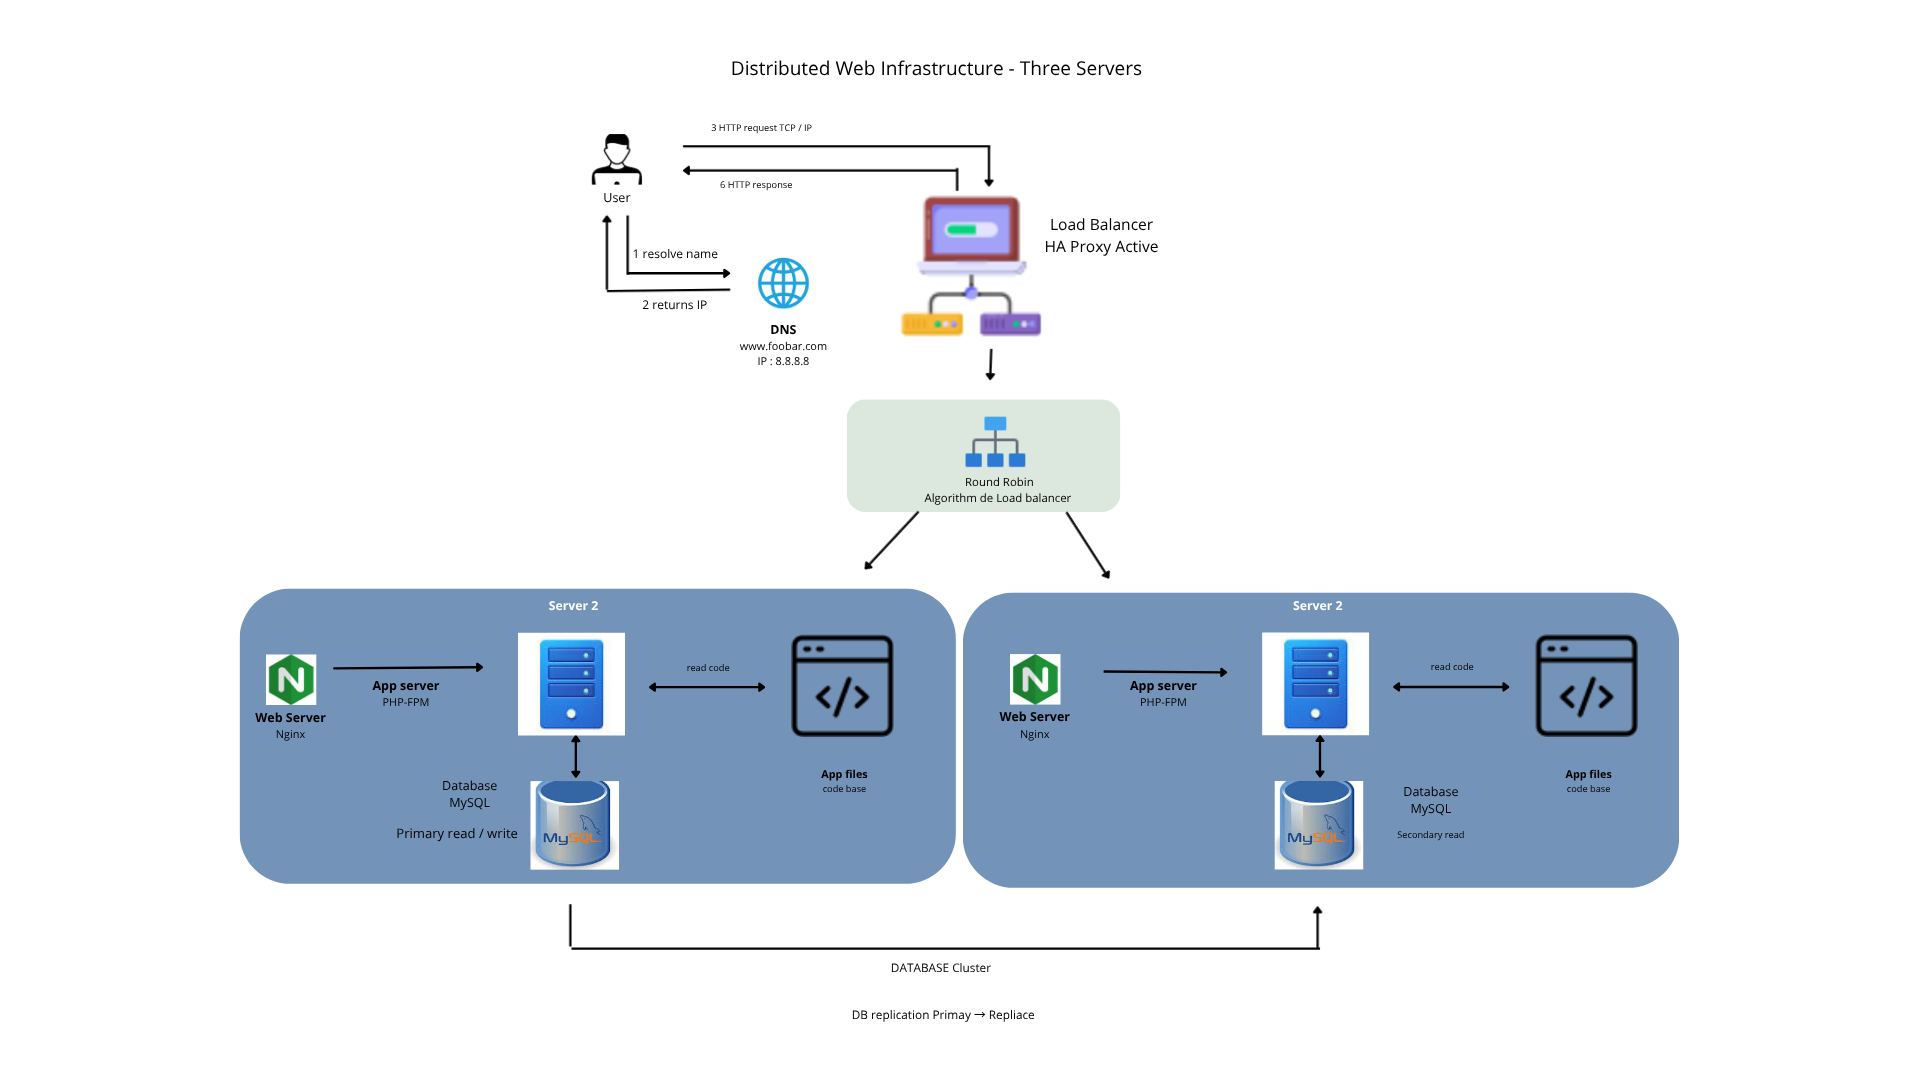
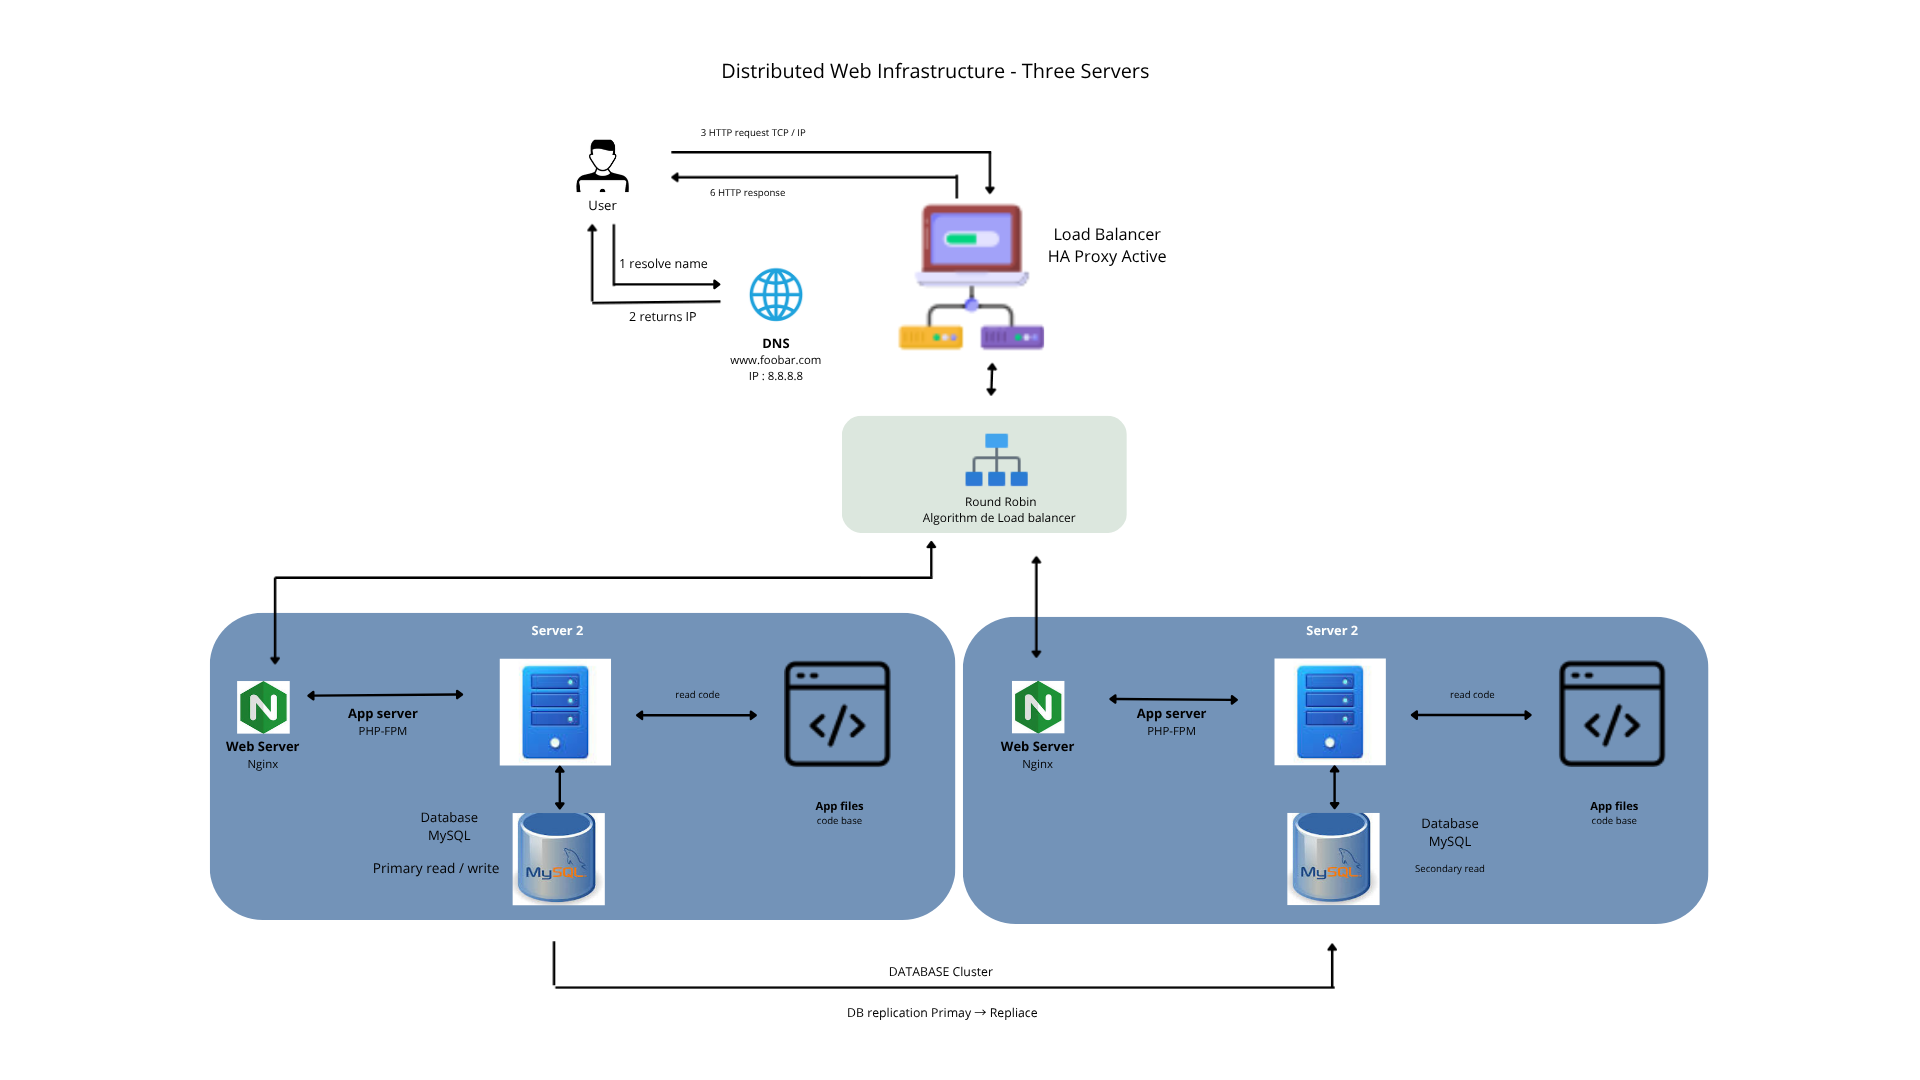
update graphs with return paths

Changed region(s): [[0.0938, 0.0611, 0.9062, 0.9167], [0.4375, 0.8861, 0.5312, 0.9472], [0.5938, 0.6111, 0.625, 0.6722]]

diff --git a/web_infrastructure_design/0-simple_web_stack.md b/web_infrastructure_design/0-simple_web_stack.md
@@ -1,6 +1,6 @@
 # 0. Simple web stack
 
-![Simple Web Stack - One server infrastructure](../assests/Simple%20Web%20Stack%20-%20One%20server%20infrastructure%20%283%29.png)
+![Simple Web Stack - One server infrastructure](../assests/Simple%20Web%20Stack%20-%20One%20server%20infrastructure.png)
 
 ## Description
 
@@ -23,8 +23,10 @@ on a LAMP-style stack (Linux + Nginx + MySQL + application code).
   serves resources (here, the website) to clients over a network.
 - **Role of the domain name**: a human-readable name (`foobar.com`) that maps to
   the server IP, so users don't have to remember `8.8.8.8`.
-- **Type of DNS record for `www`**: the `www` in `www.foobar.com` is a
-  **CNAME** record (an alias), ultimately resolving to the IP through an A record.
+- **Type of DNS record for `www`**: since `www.foobar.com` points directly to the
+  server IP `8.8.8.8`, the `www` record is an **A record** (an A record maps a
+  name to an IPv4 address). A CNAME could not be used here because a CNAME points
+  to another domain name, never directly to an IP.
 - **Role of the web server (Nginx)**: receives HTTP requests, serves static
   files, and forwards dynamic requests to the application server.
 - **Role of the application server (PHP-FPM)**: executes the application code
